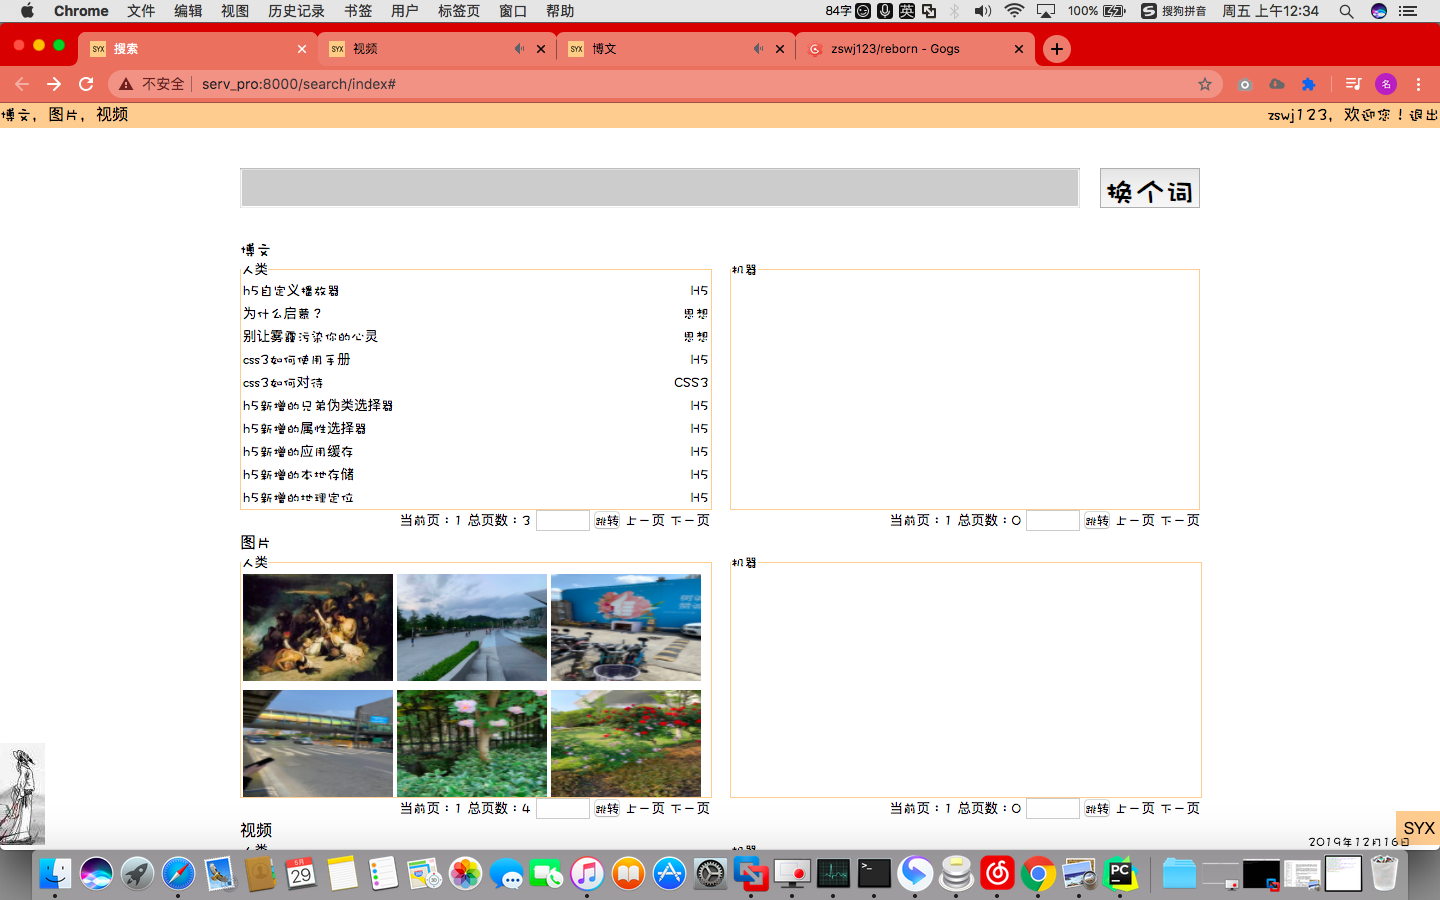
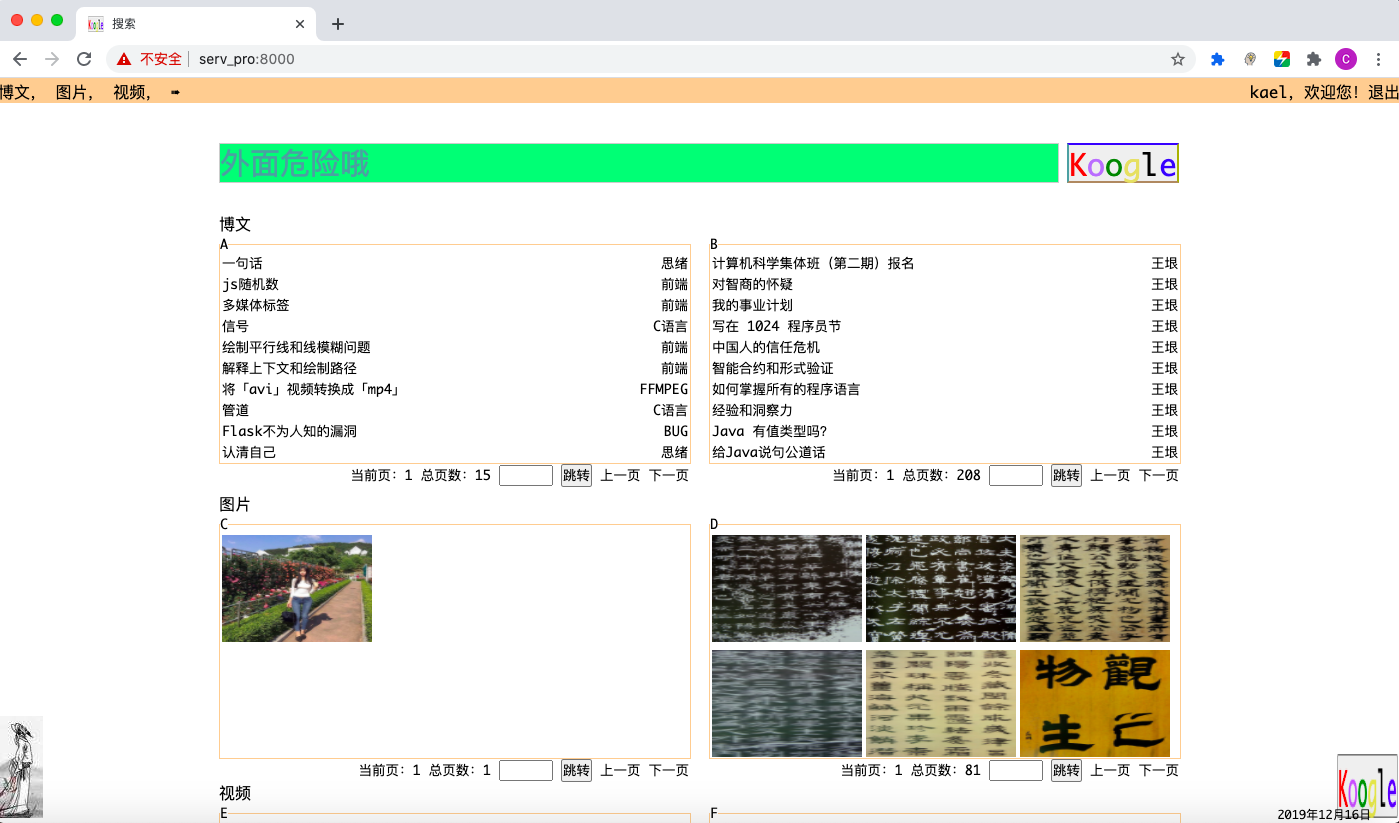
新的logo，新的目标。

diff --git a/README.md b/README.md
@@ -34,7 +34,9 @@ PC端：
 
 用于为自己播放想要的视频。
 
+广告业务:
+![](http://serv_pro:3000/kael/kael/raw/master/kael/static/pc_ad.png)
+
 ## Future
 
-1. 一个属于这个网站的浏览器；
-2. 一个属于这个网站的社交软件；
+* [ ] 求职网站
